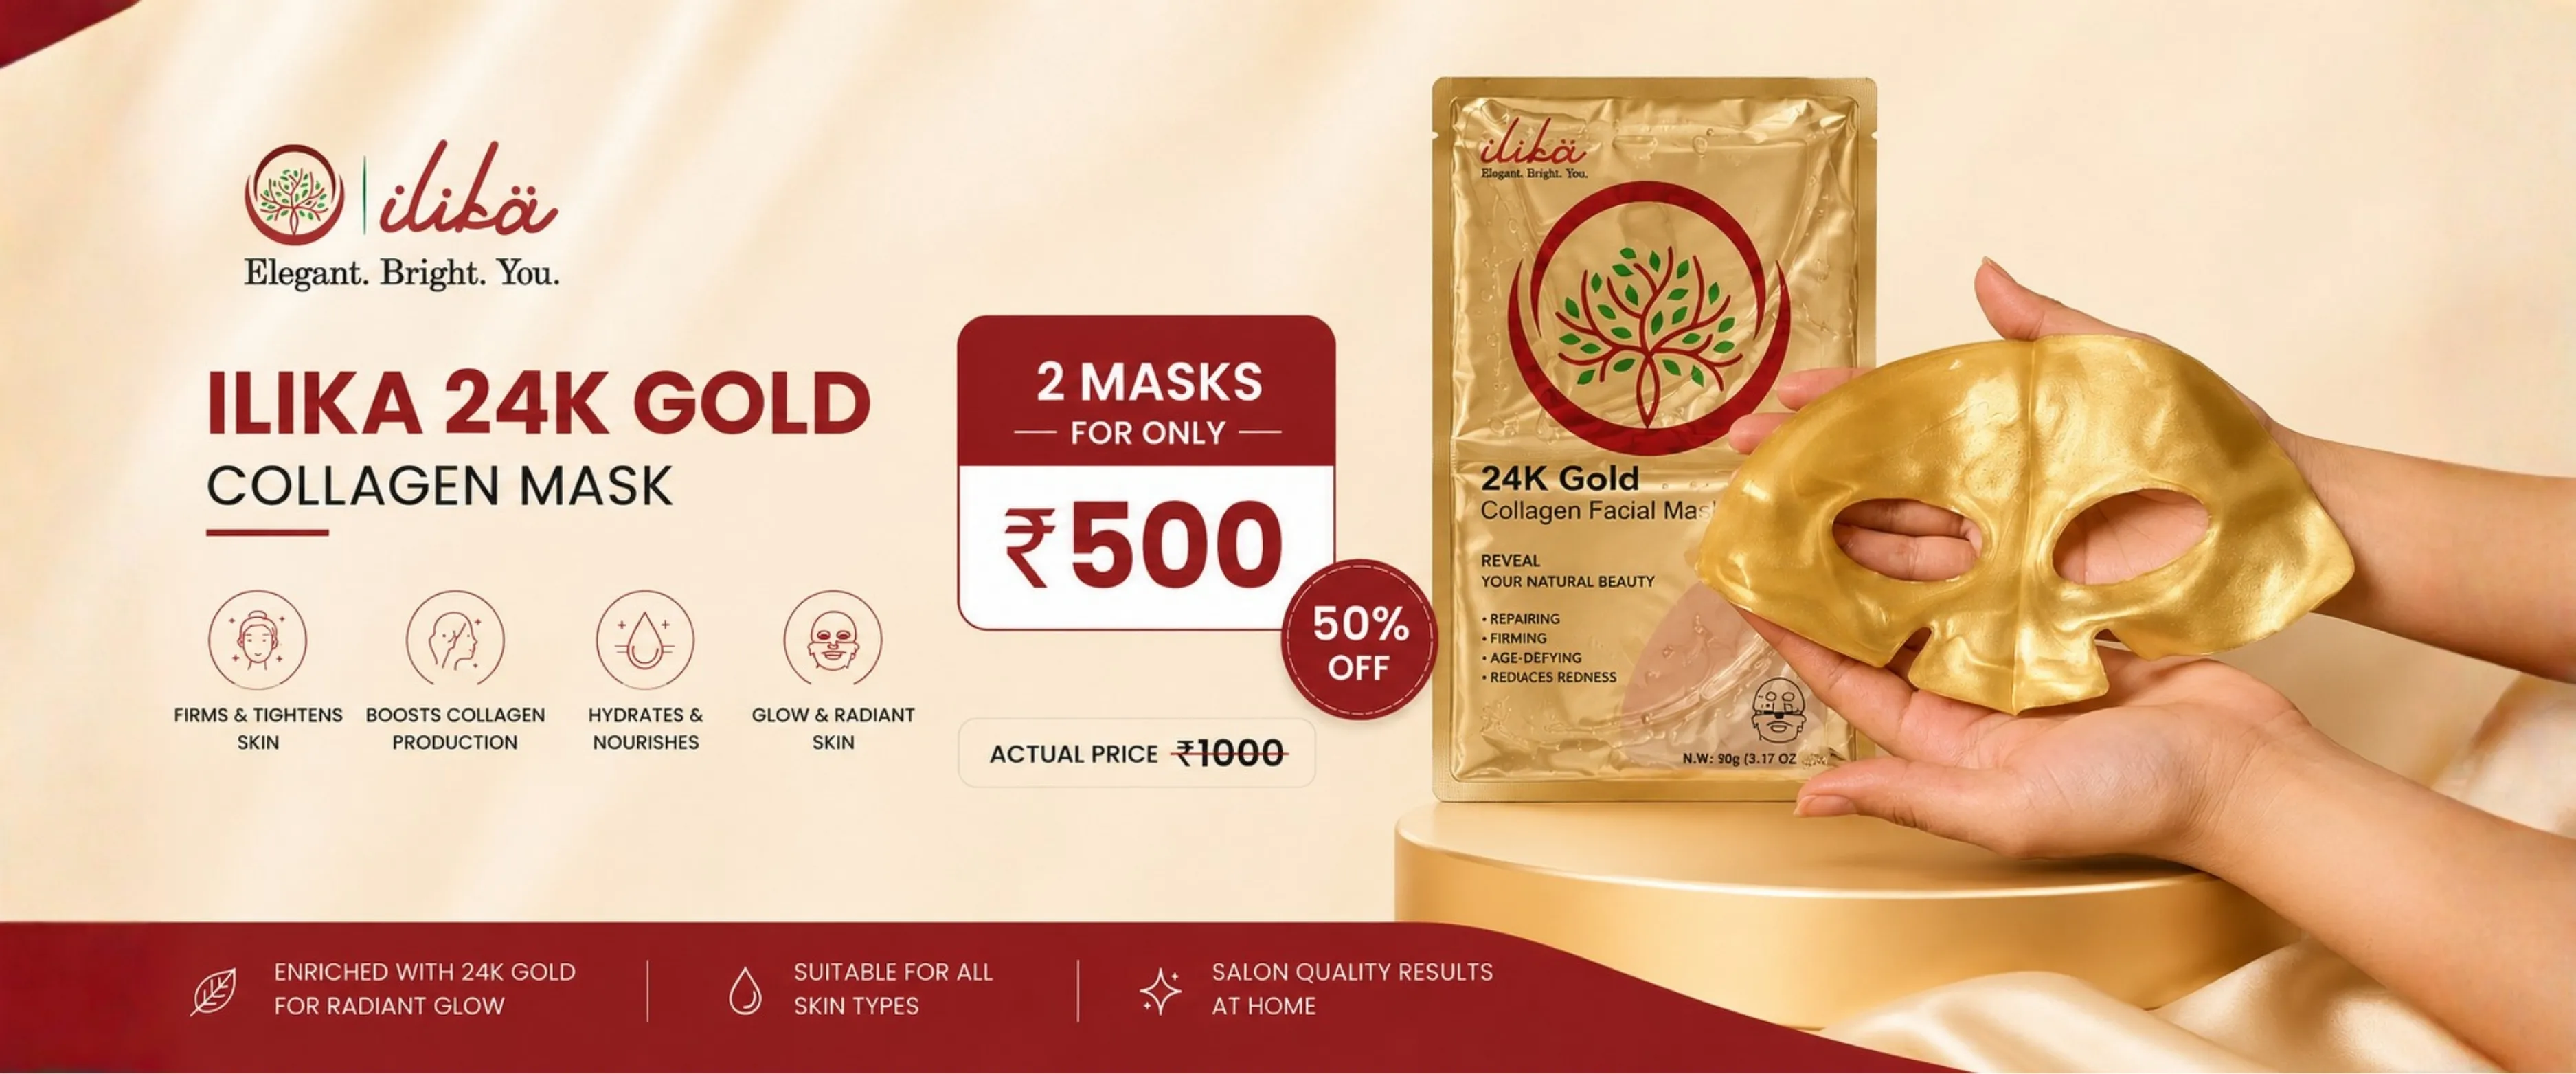
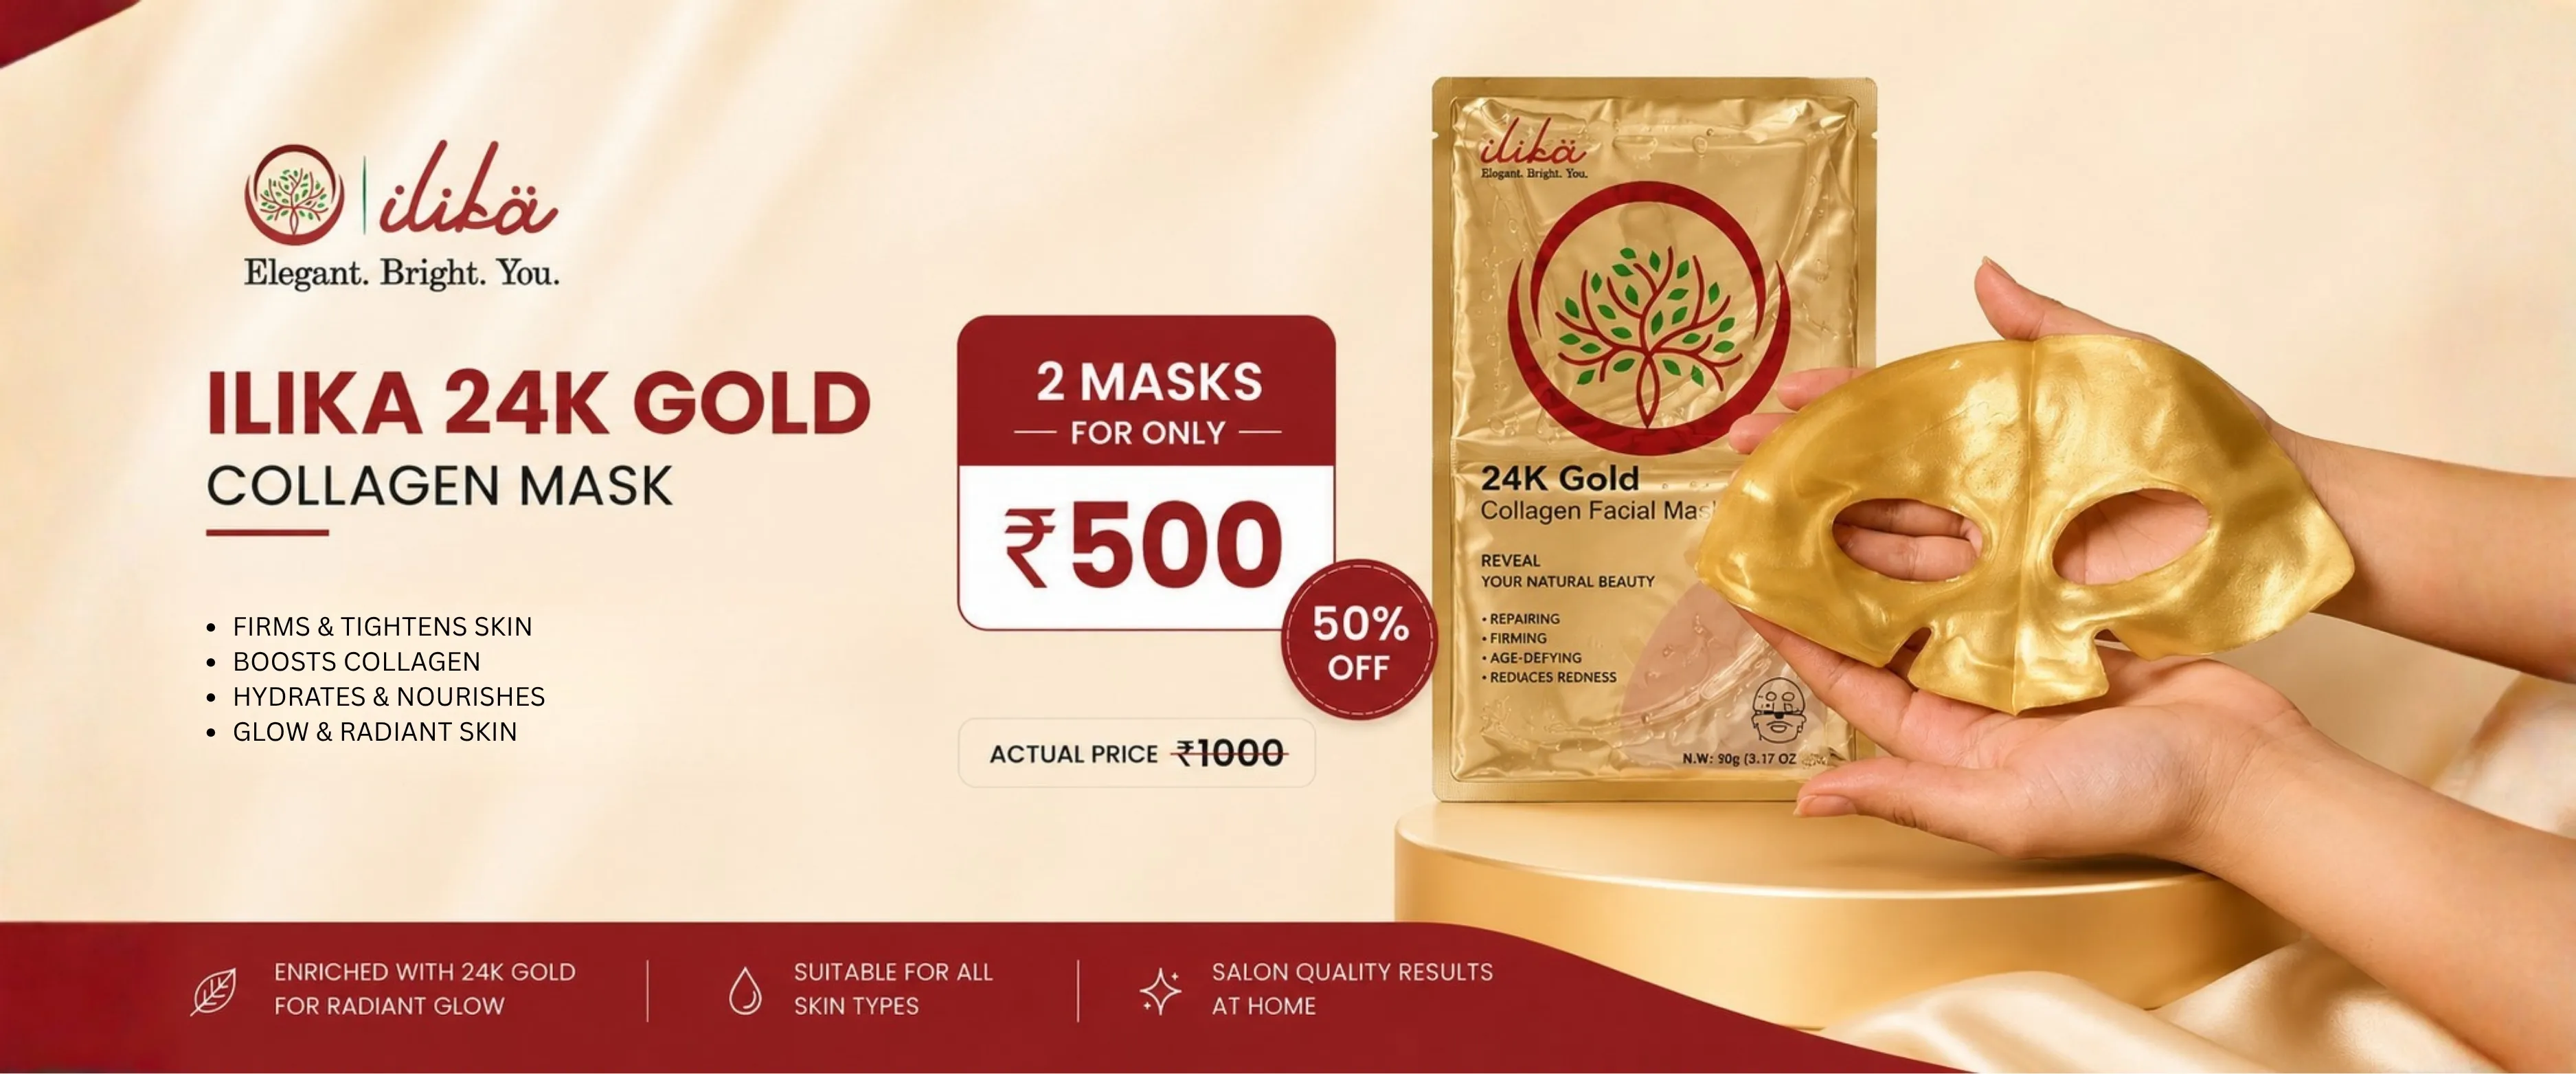
product detail page

Changed region(s): [[0.0624, 0.5528, 0.3744, 0.7063]]

diff --git a/src/pages/Home.jsx b/src/pages/Home.jsx
@@ -34,6 +34,8 @@ const hairMobile = "/Images/hairMobile.webp";
 const BannerStyle = "/Images/Banner.webp";
 const endBannerDesktop = "/Images/End1.webp";
 const endBannerMobile = "/Images/End1.webp";
+const end2BannerDesktop = "/Images/End2.webp";
+const end2BannerMobile = "/Images/End2.webp";
 const maskBannerDesktop = "/Images/mask.webp";
 const maskBannerMobile = "/Images/mask.webp";
 const maskComboBanner24Desktop = "/Images/24.webp";
@@ -239,12 +241,12 @@ const Home = () => {
                 linkUrl: "/mask-combo",
                 alt: "Mask Combo Offer Banner",
               },
-              // {
-              //   desktopSrc: maskComboBanner24Desktop,
-              //   mobileSrc: maskComboBanner24Mobile,
-              //   linkUrl: "/mask-combo#mask-combo-4in1",
-              //   alt: "Mask Combo Banner",
-              // },
+              {
+                desktopSrc: end2BannerDesktop,
+                mobileSrc: end2BannerMobile,
+                linkUrl: "/mask-combo#mask-combo-4in1",
+                alt: "Mask Combo Banner",
+              },
 
             ]}
             imageFit="contain"